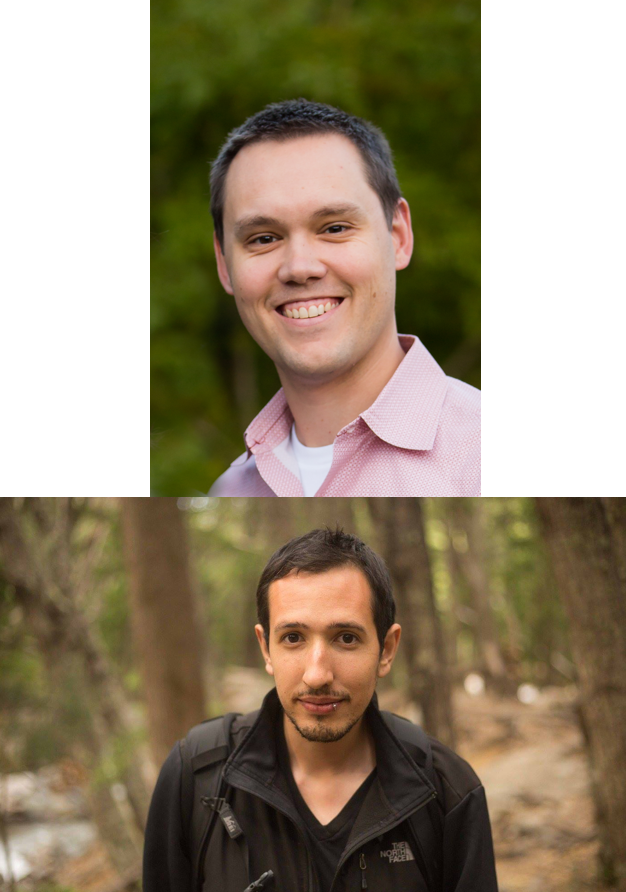
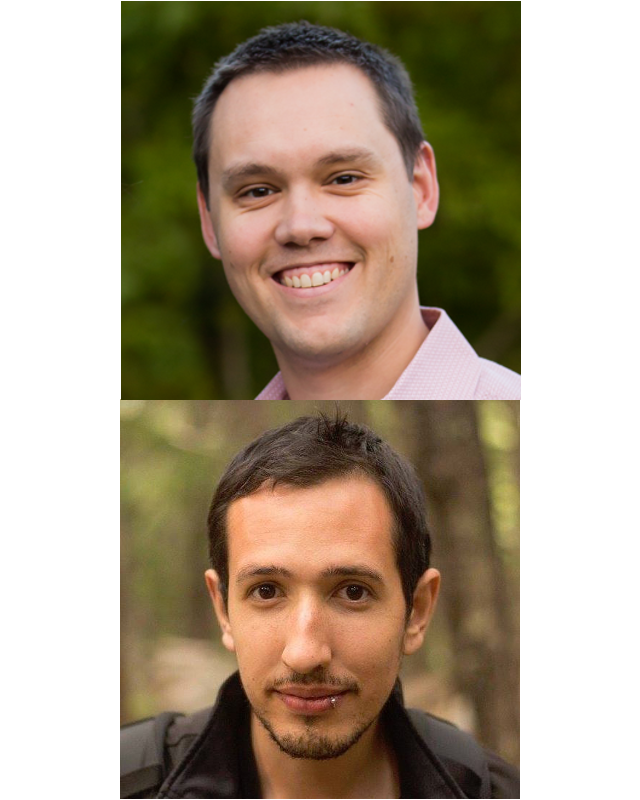
Update Image Matt+Alan

diff --git a/Concourse/concourse.md b/Concourse/concourse.md
@@ -11,7 +11,7 @@ autoscale: true
 
 ---
 
-![left 70%](../common/images/alan+matt.png) 
+![left 80%](../common/images/alan+matt.png) 
 
 <br><br>
 Matt Curry
@@ -19,7 +19,7 @@ Director of Cloud Engineering
 Allstate
 @mattjcurry
 
-<br><br><br><br><br><br><br><br><br><br>
+<br><br><br><br><br><br><br><br>
 Alan Moran
 Cloud Foundry Architect
 Allstate
